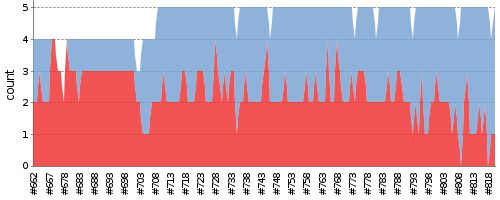
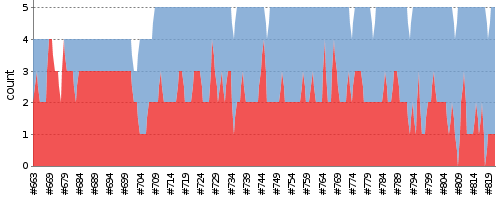
update report

diff --git a/index.md b/index.md
@@ -1,7 +1,7 @@
 ---
 layout: default
 ---
-Last update : 2016/01/20 17:59:07
+Last update : 2016/01/20 18:59:06
   
 ### Job Summary
 ___
@@ -106,6 +106,7 @@ ___
 #### Build History
 |Status|Time|Duration|<span class='badge'>ctest</span>|<span class='badge'>cppcheck</span>|Coverage|Changes|Logs|Note|
 |---|---|---|---|---|---|---|---|---|---|
+|![Jenkins Icon](http://jenkinshrg.github.io/images/24x24/yellow.png)UNSTABLE|2016/01/20 18:00|45 min.|1||||[CONSOLE](https://drive.google.com/file/d/0B54sHwaxmuM4T2tCM2FEckc2aEk/view?usp=drivesdk)<br>[IMAGE](https://drive.google.com/file/d/0B54sHwaxmuM4WUNSUUUtdmItRms/view?usp=drivesdk)<br>[VIDEO](https://drive.google.com/file/d/0B54sHwaxmuM4YnkzM2ZvaDQwa28/view?usp=drivesdk)<br>[CONSOLE](https://drive.google.com/file/d/0B54sHwaxmuM4U2NYNm9CaVF3MXM/view?usp=drivesdk)<br>[IMAGE](https://drive.google.com/file/d/0B54sHwaxmuM4alh5Q1NENWNHSWs/view?usp=drivesdk)<br>[VIDEO](https://drive.google.com/file/d/0B54sHwaxmuM4STQ5bEFTMGZmMXc/view?usp=drivesdk)<br>[CONSOLE](https://drive.google.com/file/d/0B54sHwaxmuM4SjZjLVBTaXJveTA/view?usp=drivesdk)<br>[IMAGE](https://drive.google.com/file/d/0B54sHwaxmuM4b0pMOF9nSUlzWjA/view?usp=drivesdk)<br>[VIDEO](https://drive.google.com/file/d/0B54sHwaxmuM4aW1UUzg1RlJOV1k/view?usp=drivesdk)<br>[CONSOLE](https://drive.google.com/file/d/0B54sHwaxmuM4WC1ySldXMnN0Qm8/view?usp=drivesdk)<br>[IMAGE](https://drive.google.com/file/d/0B54sHwaxmuM4UnVuMXM2YWRjOTQ/view?usp=drivesdk)<br>[VIDEO](https://drive.google.com/file/d/0B54sHwaxmuM4YTZzd29wQnRnMms/view?usp=drivesdk)<br>[CONSOLE](https://drive.google.com/file/d/0B54sHwaxmuM4SG43VW9DN3Z4b2c/view?usp=drivesdk)<br>[IMAGE](https://drive.google.com/file/d/0B54sHwaxmuM4ZVNFZVNCMEJLN0U/view?usp=drivesdk)<br>[VIDEO](https://drive.google.com/file/d/0B54sHwaxmuM4ZE9QNkZhaUhsbXc/view?usp=drivesdk)<br>||
 |![Jenkins Icon](http://jenkinshrg.github.io/images/24x24/yellow.png)UNSTABLE|2016/01/20 17:00|46 min.|1|||[ec14f64](https://github.com/jrl-umi3218/hmc2/commit/ec14f64)<br>|[BUILD](https://drive.google.com/file/d/0B54sHwaxmuM4d0tkLVhFQk1wbW8/view?usp=drivesdk)<br>[CONSOLE](https://drive.google.com/file/d/0B54sHwaxmuM4b0M5eFNsVzN3Y3M/view?usp=drivesdk)<br>[IMAGE](https://drive.google.com/file/d/0B54sHwaxmuM4ZmVaeXNkVFo5MU0/view?usp=drivesdk)<br>[VIDEO](https://drive.google.com/file/d/0B54sHwaxmuM4V21LSC1BbFlZU2M/view?usp=drivesdk)<br>[CONSOLE](https://drive.google.com/file/d/0B54sHwaxmuM4SGZINTVkTkxQbnM/view?usp=drivesdk)<br>[IMAGE](https://drive.google.com/file/d/0B54sHwaxmuM4ZlhSNnNYaEVOZWs/view?usp=drivesdk)<br>[VIDEO](https://drive.google.com/file/d/0B54sHwaxmuM4WmkzVzlndkt0SGs/view?usp=drivesdk)<br>[CONSOLE](https://drive.google.com/file/d/0B54sHwaxmuM4ckF4Wk1RdFlLMm8/view?usp=drivesdk)<br>[IMAGE](https://drive.google.com/file/d/0B54sHwaxmuM4QWN6aEpQLUY0d0E/view?usp=drivesdk)<br>[VIDEO](https://drive.google.com/file/d/0B54sHwaxmuM4THZMRlBZai1KT1k/view?usp=drivesdk)<br>[CONSOLE](https://drive.google.com/file/d/0B54sHwaxmuM4Wl8tbWdRVTVJa1k/view?usp=drivesdk)<br>[IMAGE](https://drive.google.com/file/d/0B54sHwaxmuM4Y1FxZ1lia0NxeFU/view?usp=drivesdk)<br>[VIDEO](https://drive.google.com/file/d/0B54sHwaxmuM4T1J1UmNrTFBTTU0/view?usp=drivesdk)<br>[CONSOLE](https://drive.google.com/file/d/0B54sHwaxmuM4dDZ4eUpCRWwwbFU/view?usp=drivesdk)<br>[IMAGE](https://drive.google.com/file/d/0B54sHwaxmuM4VUxpTUIwNFQtc28/view?usp=drivesdk)<br>[VIDEO](https://drive.google.com/file/d/0B54sHwaxmuM4R05fbVVuTURHN1k/view?usp=drivesdk)<br>||
 |![Jenkins Icon](http://jenkinshrg.github.io/images/24x24/red.png)FAILURE|2016/01/20 16:00|9 min.|1||||[CONSOLE](https://drive.google.com/file/d/0B54sHwaxmuM4bmdpa24tUFZNTVk/view?usp=drivesdk)<br>[IMAGE](https://drive.google.com/file/d/0B54sHwaxmuM4MEdGVUJnY3JFTjA/view?usp=drivesdk)<br>[VIDEO](https://drive.google.com/file/d/0B54sHwaxmuM4dzhiaTVpZERRdTg/view?usp=drivesdk)<br>[CONSOLE](https://drive.google.com/file/d/0B54sHwaxmuM4eXFEN0RKaEhuWTg/view?usp=drivesdk)<br>[CONSOLE](https://drive.google.com/file/d/0B54sHwaxmuM4b3BUVERMaWE1Tnc/view?usp=drivesdk)<br>[IMAGE](https://drive.google.com/file/d/0B54sHwaxmuM4SFlaMUNSUUluSk0/view?usp=drivesdk)<br>[VIDEO](https://drive.google.com/file/d/0B54sHwaxmuM4WkMtcnVOZmNfOXM/view?usp=drivesdk)<br>[CONSOLE](https://drive.google.com/file/d/0B54sHwaxmuM4MVJtZElUU1V6UmM/view?usp=drivesdk)<br>[IMAGE](https://drive.google.com/file/d/0B54sHwaxmuM4ZmtseE9wWndmNk0/view?usp=drivesdk)<br>[VIDEO](https://drive.google.com/file/d/0B54sHwaxmuM4YjVoVjhCQ05TN1U/view?usp=drivesdk)<br>[CONSOLE](https://drive.google.com/file/d/0B54sHwaxmuM4SVNQb3BFc0hsdXM/view?usp=drivesdk)<br>[IMAGE](https://drive.google.com/file/d/0B54sHwaxmuM4b2d1b0tVeVF5SW8/view?usp=drivesdk)<br>[VIDEO](https://drive.google.com/file/d/0B54sHwaxmuM4bVItblFEZVpId2s/view?usp=drivesdk)<br>||
 |![Jenkins Icon](http://jenkinshrg.github.io/images/24x24/blue.png)SUCCESS|2016/01/20 15:00|45 min.|0||||[CONSOLE](https://drive.google.com/file/d/0B54sHwaxmuM4bjVnU1RmVV91V0k/view?usp=drivesdk)<br>[IMAGE](https://drive.google.com/file/d/0B54sHwaxmuM4MGJXUjZ2bnR5X1k/view?usp=drivesdk)<br>[VIDEO](https://drive.google.com/file/d/0B54sHwaxmuM4clpJQTdRMTdKSjg/view?usp=drivesdk)<br>[CONSOLE](https://drive.google.com/file/d/0B54sHwaxmuM4UXJqUUduRms3MEk/view?usp=drivesdk)<br>[IMAGE](https://drive.google.com/file/d/0B54sHwaxmuM4VVBBa3FKU2ZWZjA/view?usp=drivesdk)<br>[VIDEO](https://drive.google.com/file/d/0B54sHwaxmuM4c1Q2Mkl2d0VrVkE/view?usp=drivesdk)<br>[CONSOLE](https://drive.google.com/file/d/0B54sHwaxmuM4SUdBLWpxRVpJZHc/view?usp=drivesdk)<br>[IMAGE](https://drive.google.com/file/d/0B54sHwaxmuM4YVBFMjdpNjYtQ00/view?usp=drivesdk)<br>[VIDEO](https://drive.google.com/file/d/0B54sHwaxmuM4X3ZKRmVJdTlSWkE/view?usp=drivesdk)<br>[CONSOLE](https://drive.google.com/file/d/0B54sHwaxmuM4TlFGSnFtZGZESXM/view?usp=drivesdk)<br>[IMAGE](https://drive.google.com/file/d/0B54sHwaxmuM4cm5uTXVyRWN5TzA/view?usp=drivesdk)<br>[VIDEO](https://drive.google.com/file/d/0B54sHwaxmuM4OGh5LTdTQzByeVk/view?usp=drivesdk)<br>[CONSOLE](https://drive.google.com/file/d/0B54sHwaxmuM4amFOQmZFUGFHb0U/view?usp=drivesdk)<br>[IMAGE](https://drive.google.com/file/d/0B54sHwaxmuM4WkhOWVNRSXVYTVU/view?usp=drivesdk)<br>[VIDEO](https://drive.google.com/file/d/0B54sHwaxmuM4NnJpMVRGT2tMQnc/view?usp=drivesdk)<br>||
@@ -205,4 +206,3 @@ ___
 |![Jenkins Icon](http://jenkinshrg.github.io/images/24x24/yellow.png)UNSTABLE|2016/01/16 08:19|69 min.|3||||[CONSOLE](https://drive.google.com/file/d/0B54sHwaxmuM4amZfSWphenJWRms/view?usp=drivesdk)<br>[IMAGE](https://drive.google.com/file/d/0B54sHwaxmuM4U2QzZ0pSYmhRN1E/view?usp=drivesdk)<br>[VIDEO](https://drive.google.com/file/d/0B54sHwaxmuM4UjJaeW1wVTNITk0/view?usp=drivesdk)<br>[CONSOLE](https://drive.google.com/file/d/0B54sHwaxmuM4WnlDbnlta2YwNGc/view?usp=drivesdk)<br>[IMAGE](https://drive.google.com/file/d/0B54sHwaxmuM4NGhYYkI1NFBFbUE/view?usp=drivesdk)<br>[VIDEO](https://drive.google.com/file/d/0B54sHwaxmuM4bDhZMm95cnVqR1U/view?usp=drivesdk)<br>[CONSOLE](https://drive.google.com/file/d/0B54sHwaxmuM4X3VNbkFoMHJDVTA/view?usp=drivesdk)<br>[IMAGE](https://drive.google.com/file/d/0B54sHwaxmuM4NWN6T3hOM1ltaEE/view?usp=drivesdk)<br>[VIDEO](https://drive.google.com/file/d/0B54sHwaxmuM4bDJIZTduakp5MUk/view?usp=drivesdk)<br>[CONSOLE](https://drive.google.com/file/d/0B54sHwaxmuM4UktpSktWNTkyQTA/view?usp=drivesdk)<br>[IMAGE](https://drive.google.com/file/d/0B54sHwaxmuM4dC1JR0U3aTk5YWM/view?usp=drivesdk)<br>[VIDEO](https://drive.google.com/file/d/0B54sHwaxmuM4TFFEbnM4NkxHM0U/view?usp=drivesdk)<br>[CONSOLE](https://drive.google.com/file/d/0B54sHwaxmuM4VDcyRTBDMnZYMkU/view?usp=drivesdk)<br>[IMAGE](https://drive.google.com/file/d/0B54sHwaxmuM4NlRSdmF5Y1RPeWM/view?usp=drivesdk)<br>[VIDEO](https://drive.google.com/file/d/0B54sHwaxmuM4Rl9ock5yMVZqTlE/view?usp=drivesdk)<br>||
 |![Jenkins Icon](http://jenkinshrg.github.io/images/24x24/yellow.png)UNSTABLE|2016/01/16 07:09|69 min.|3||||[CONSOLE](https://drive.google.com/file/d/0B54sHwaxmuM4M1c4UktQVkZqUTQ/view?usp=drivesdk)<br>[IMAGE](https://drive.google.com/file/d/0B54sHwaxmuM4U0czWHM2cjkycnM/view?usp=drivesdk)<br>[VIDEO](https://drive.google.com/file/d/0B54sHwaxmuM4NVlhRS1VNVdUZmM/view?usp=drivesdk)<br>[CONSOLE](https://drive.google.com/file/d/0B54sHwaxmuM4MTAyMmRlM0RWM0k/view?usp=drivesdk)<br>[IMAGE](https://drive.google.com/file/d/0B54sHwaxmuM4NGFyUWhBSE9NMTA/view?usp=drivesdk)<br>[VIDEO](https://drive.google.com/file/d/0B54sHwaxmuM4T2lmLXRldGNXemc/view?usp=drivesdk)<br>[CONSOLE](https://drive.google.com/file/d/0B54sHwaxmuM4Qlh4a3pERHpycnM/view?usp=drivesdk)<br>[IMAGE](https://drive.google.com/file/d/0B54sHwaxmuM4YTV5VHlfVWdrS0k/view?usp=drivesdk)<br>[VIDEO](https://drive.google.com/file/d/0B54sHwaxmuM4TlZ3YW1rZHkxdDQ/view?usp=drivesdk)<br>[CONSOLE](https://drive.google.com/file/d/0B54sHwaxmuM4dEdQbXNtMVZUVzQ/view?usp=drivesdk)<br>[IMAGE](https://drive.google.com/file/d/0B54sHwaxmuM4Tm9VNGR3MkdZV2c/view?usp=drivesdk)<br>[VIDEO](https://drive.google.com/file/d/0B54sHwaxmuM4cjJuaHE2eHZmMkk/view?usp=drivesdk)<br>[CONSOLE](https://drive.google.com/file/d/0B54sHwaxmuM4aWVmNEt6VzduN1E/view?usp=drivesdk)<br>[IMAGE](https://drive.google.com/file/d/0B54sHwaxmuM4a0E0OWFGd1R2LXc/view?usp=drivesdk)<br>[VIDEO](https://drive.google.com/file/d/0B54sHwaxmuM4akNXZ0twZ1F5VEk/view?usp=drivesdk)<br>||
 |![Jenkins Icon](http://jenkinshrg.github.io/images/24x24/yellow.png)UNSTABLE|2016/01/16 06:00|69 min.|3||||[CONSOLE](https://drive.google.com/file/d/0B54sHwaxmuM4VUZZRy1hZ0lyNmc/view?usp=drivesdk)<br>[IMAGE](https://drive.google.com/file/d/0B54sHwaxmuM4SEhjeDlHQkZUaEE/view?usp=drivesdk)<br>[VIDEO](https://drive.google.com/file/d/0B54sHwaxmuM4cnRvWWtvWjc2TUU/view?usp=drivesdk)<br>[CONSOLE](https://drive.google.com/file/d/0B54sHwaxmuM4czdiVE9zc1ZSYm8/view?usp=drivesdk)<br>[IMAGE](https://drive.google.com/file/d/0B54sHwaxmuM4dUpTaE9rSFFJeHM/view?usp=drivesdk)<br>[VIDEO](https://drive.google.com/file/d/0B54sHwaxmuM4cjZER2swYkJPOHc/view?usp=drivesdk)<br>[CONSOLE](https://drive.google.com/file/d/0B54sHwaxmuM4bk9xam5nSUpSM2c/view?usp=drivesdk)<br>[IMAGE](https://drive.google.com/file/d/0B54sHwaxmuM4WUVwMG5wMDVXT3M/view?usp=drivesdk)<br>[VIDEO](https://drive.google.com/file/d/0B54sHwaxmuM4aVViMWpTTV9JdXc/view?usp=drivesdk)<br>[CONSOLE](https://drive.google.com/file/d/0B54sHwaxmuM4bDIyYlFWQ214aXc/view?usp=drivesdk)<br>[IMAGE](https://drive.google.com/file/d/0B54sHwaxmuM4am1xV1ljQjJoVVE/view?usp=drivesdk)<br>[VIDEO](https://drive.google.com/file/d/0B54sHwaxmuM4WmJLa1JpYW1fLVk/view?usp=drivesdk)<br>[CONSOLE](https://drive.google.com/file/d/0B54sHwaxmuM4TFY4YUtVY1ZnaEU/view?usp=drivesdk)<br>[IMAGE](https://drive.google.com/file/d/0B54sHwaxmuM4OXpkUDdtREhCVFE/view?usp=drivesdk)<br>[VIDEO](https://drive.google.com/file/d/0B54sHwaxmuM4RExtMXJCVUdOVGs/view?usp=drivesdk)<br>||
-|![Jenkins Icon](http://jenkinshrg.github.io/images/24x24/red.png)FAILURE|2016/01/16 05:00|9 min.|2||||[CONSOLE](https://drive.google.com/file/d/0B54sHwaxmuM4Qkk4WE1KTGFFQkE/view?usp=drivesdk)<br>[IMAGE](https://drive.google.com/file/d/0B54sHwaxmuM4a2oxbGxPWVVQWGM/view?usp=drivesdk)<br>[VIDEO](https://drive.google.com/file/d/0B54sHwaxmuM4eXlhQktUaHV1RkU/view?usp=drivesdk)<br>[CONSOLE](https://drive.google.com/file/d/0B54sHwaxmuM4UEpSc0lTbjNZdUU/view?usp=drivesdk)<br>[IMAGE](https://drive.google.com/file/d/0B54sHwaxmuM4MkZ5ODlQaU1nb00/view?usp=drivesdk)<br>[VIDEO](https://drive.google.com/file/d/0B54sHwaxmuM4cVNMUXV6M0xEbTg/view?usp=drivesdk)<br>[CONSOLE](https://drive.google.com/file/d/0B54sHwaxmuM4YkNCMDMtQlo4MFE/view?usp=drivesdk)<br>[IMAGE](https://drive.google.com/file/d/0B54sHwaxmuM4NkdIQXo2eWE0SDA/view?usp=drivesdk)<br>[VIDEO](https://drive.google.com/file/d/0B54sHwaxmuM4ZWVfalVUekE3VVE/view?usp=drivesdk)<br>[CONSOLE](https://drive.google.com/file/d/0B54sHwaxmuM4dnlCM2UyUW5XLWs/view?usp=drivesdk)<br>[IMAGE](https://drive.google.com/file/d/0B54sHwaxmuM4YjFZYV9fTGp5Qnc/view?usp=drivesdk)<br>[VIDEO](https://drive.google.com/file/d/0B54sHwaxmuM4dnFibUdhdUdpbFE/view?usp=drivesdk)<br>[CONSOLE](https://drive.google.com/file/d/0B54sHwaxmuM4RkJiWjN1WHhpV3M/view?usp=drivesdk)<br>[IMAGE](https://drive.google.com/file/d/0B54sHwaxmuM4akNrWlB2bHlLQjg/view?usp=drivesdk)<br>[VIDEO](https://drive.google.com/file/d/0B54sHwaxmuM4ZlpJTWtOcTI3eHM/view?usp=drivesdk)<br>||
